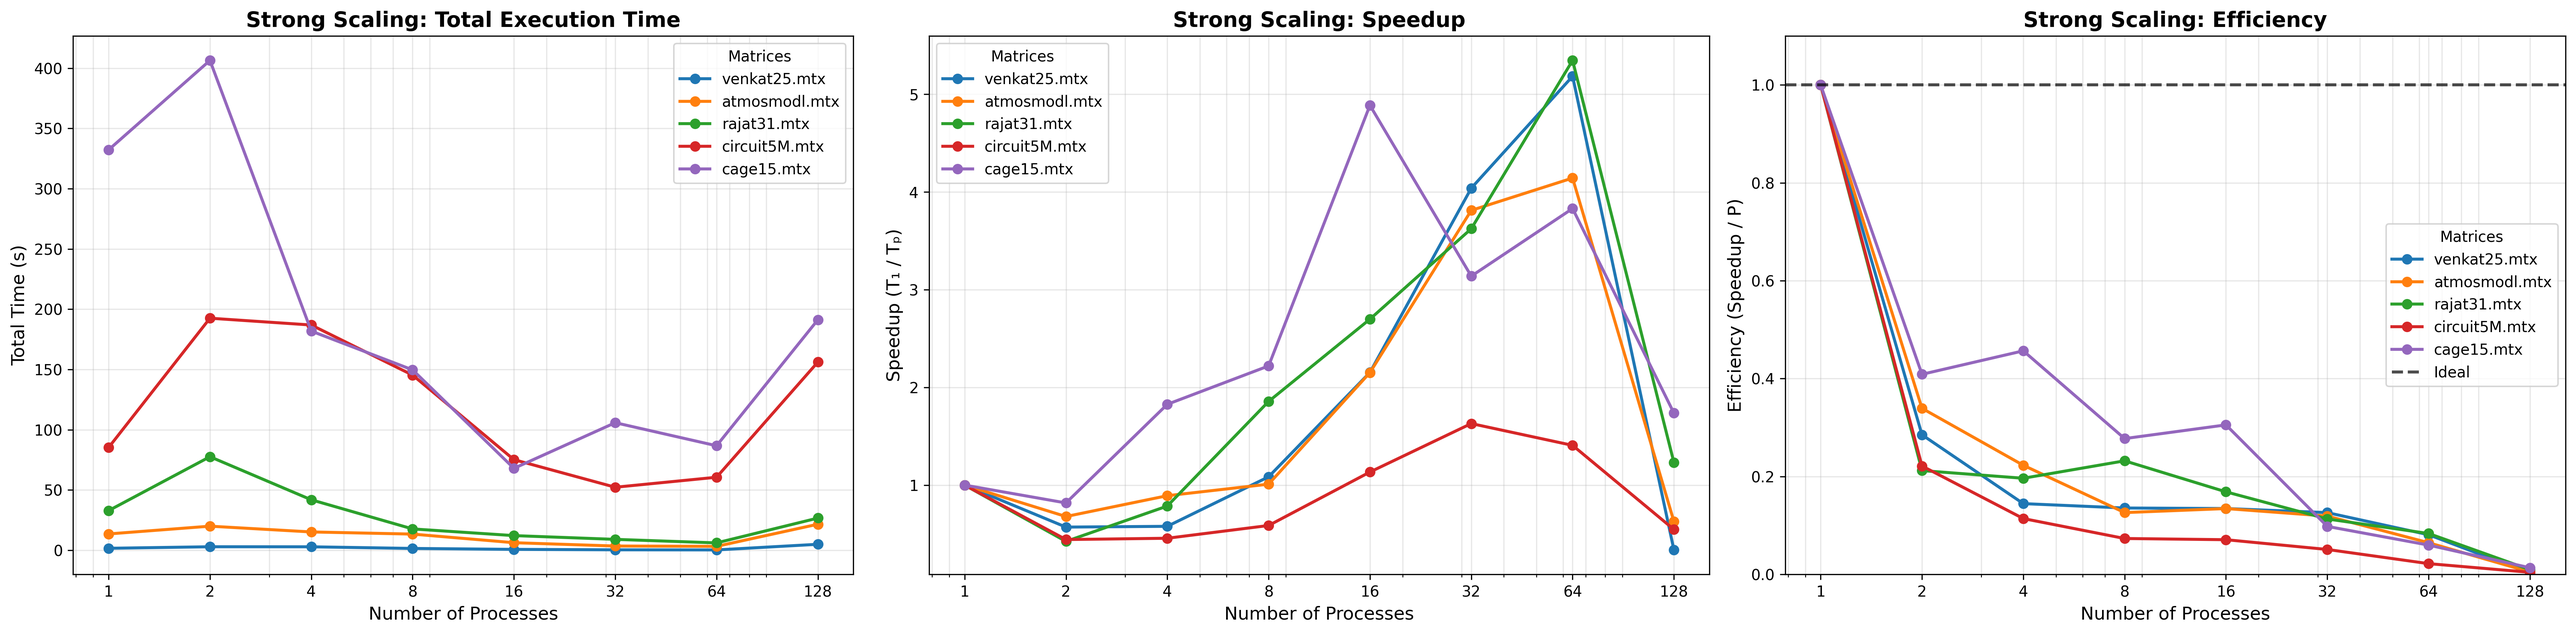
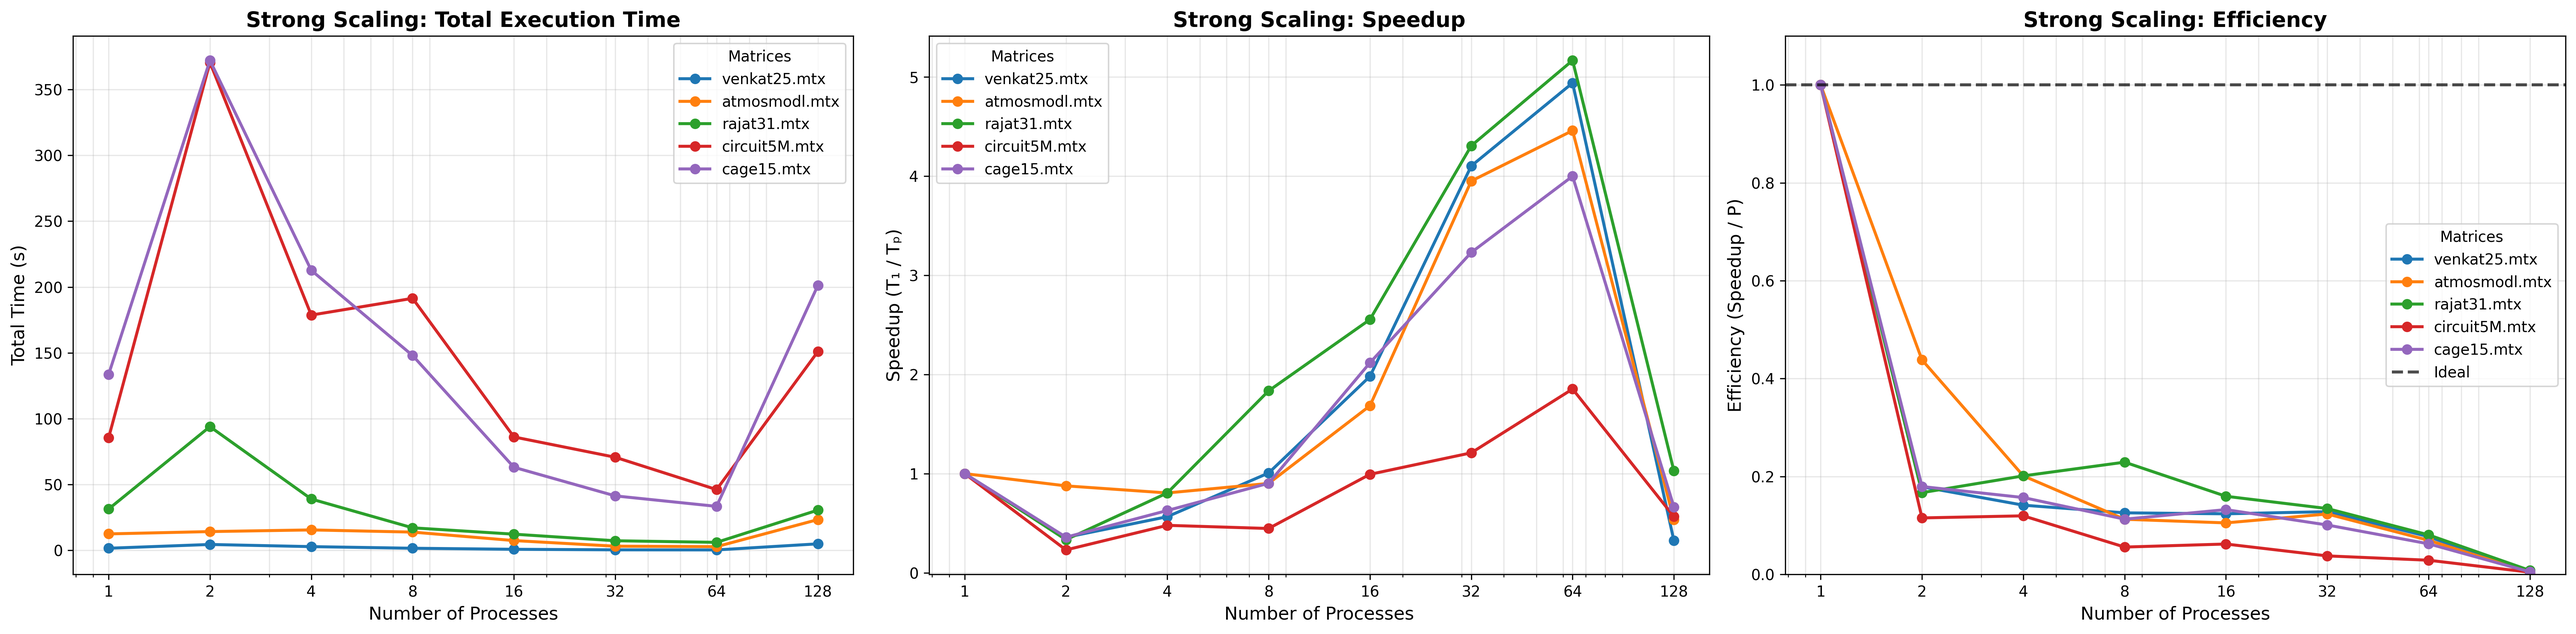
optimization

diff --git a/D2/src/ghost_entries.c b/D2/src/ghost_entries.c
@@ -19,6 +19,9 @@ void ghost_build_ownership(GhostPattern *gp, int size, int rank, const int *recv
     }
 }
 
+static int compare_ints(const void *a, const void *b) {
+    return (*(int*)a - *(int*)b);
+}
 
 void ghost_build_pattern(GhostPattern *gp, const SparseMatrixCSR *matrix){
     int size = gp->size;
@@ -33,6 +36,7 @@ void ghost_build_pattern(GhostPattern *gp, const SparseMatrixCSR *matrix){
         gp->need_idx_from[p] = (int*) malloc(capacity[p] * sizeof(int));
     }
 
+    // identify all needed ghosts (includes duplicates)
     for (int row = 0; row < matrix->M; row++) {
         int start = matrix->row_pnt[row];
         int end   = matrix->row_pnt[row + 1];
@@ -53,9 +57,27 @@ void ghost_build_pattern(GhostPattern *gp, const SparseMatrixCSR *matrix){
         }
     }
 
+    // sort and deduplicate
+    for (int p = 0; p < size; p++) {
+        if (gp->need_count[p] > 0) {
+            // sort the requested indices for this rank
+            qsort(gp->need_idx_from[p], gp->need_count[p], sizeof(int), compare_ints);
+
+            // remove duplicates
+            int unique_idx = 0;
+            for (int i = 1; i < gp->need_count[p]; i++) {
+                if (gp->need_idx_from[p][i] != gp->need_idx_from[p][unique_idx]) {
+                    unique_idx++;
+                    gp->need_idx_from[p][unique_idx] = gp->need_idx_from[p][i];
+                }
+            }
+            // update the count to the unique number of items
+            gp->need_count[p] = unique_idx + 1;
+        }
+    }
+
     free(capacity);
 }
-
 void ghost_exchange_index_lists(GhostPattern *gp, int N_global, MPI_Comm comm){
     
     int size = gp->size;

diff --git a/D2/src/ghost_entries.h b/D2/src/ghost_entries.h
@@ -29,7 +29,7 @@ typedef struct {
 // Build ownership ranges (row_start/row_end)
 void ghost_build_ownership(GhostPattern *gp, int size, int rank, const int *recvcounts);
 
-
+static int compare_ints(const void *a, const void *b);
 // Analyze the local CSR matrix and discover ghost indices.
 void ghost_build_pattern(GhostPattern *gp, const SparseMatrixCSR *matrix);
 
